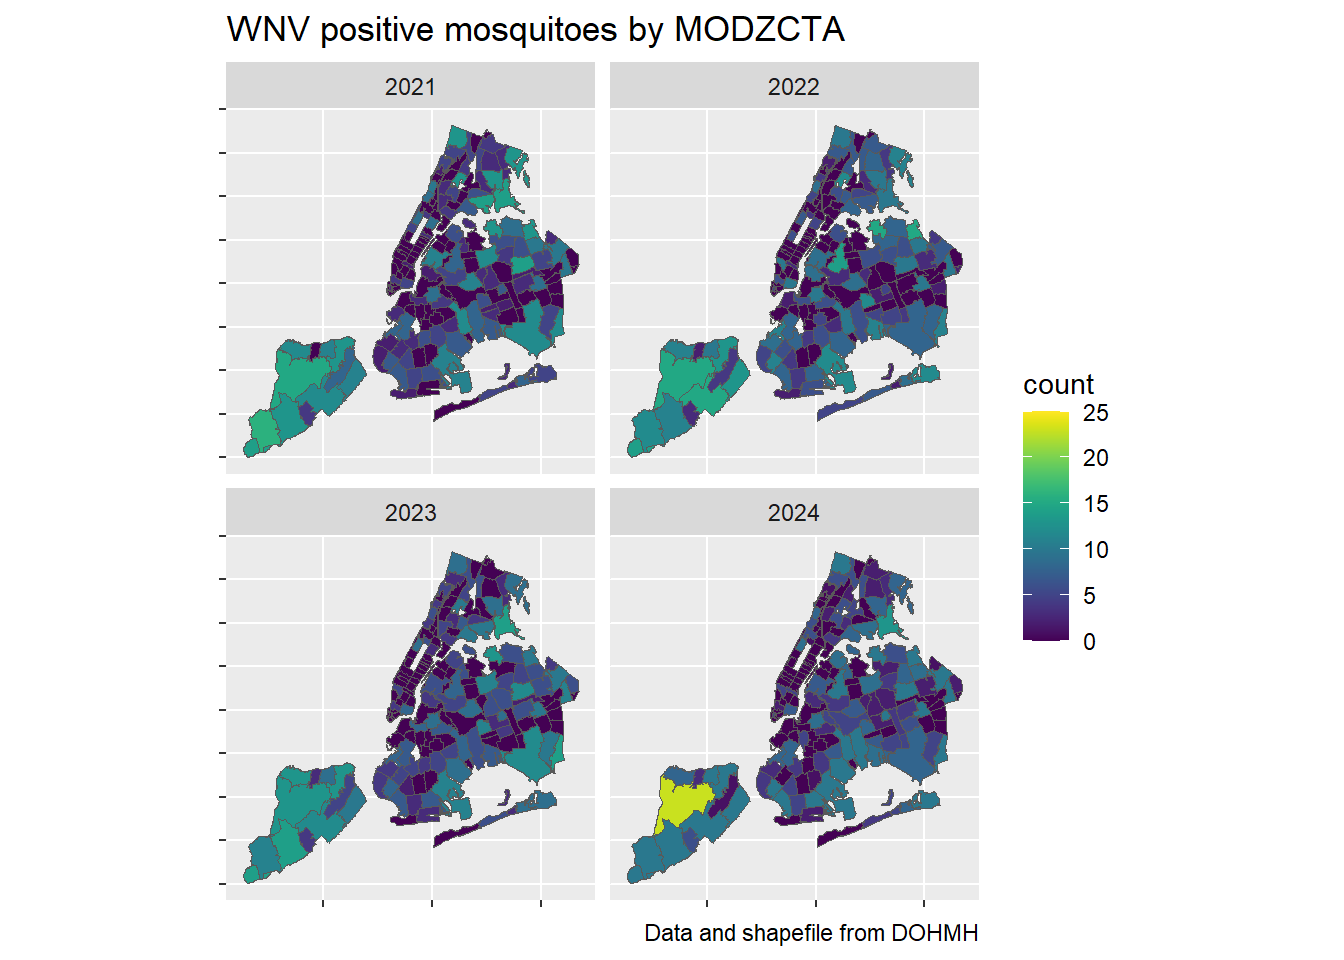
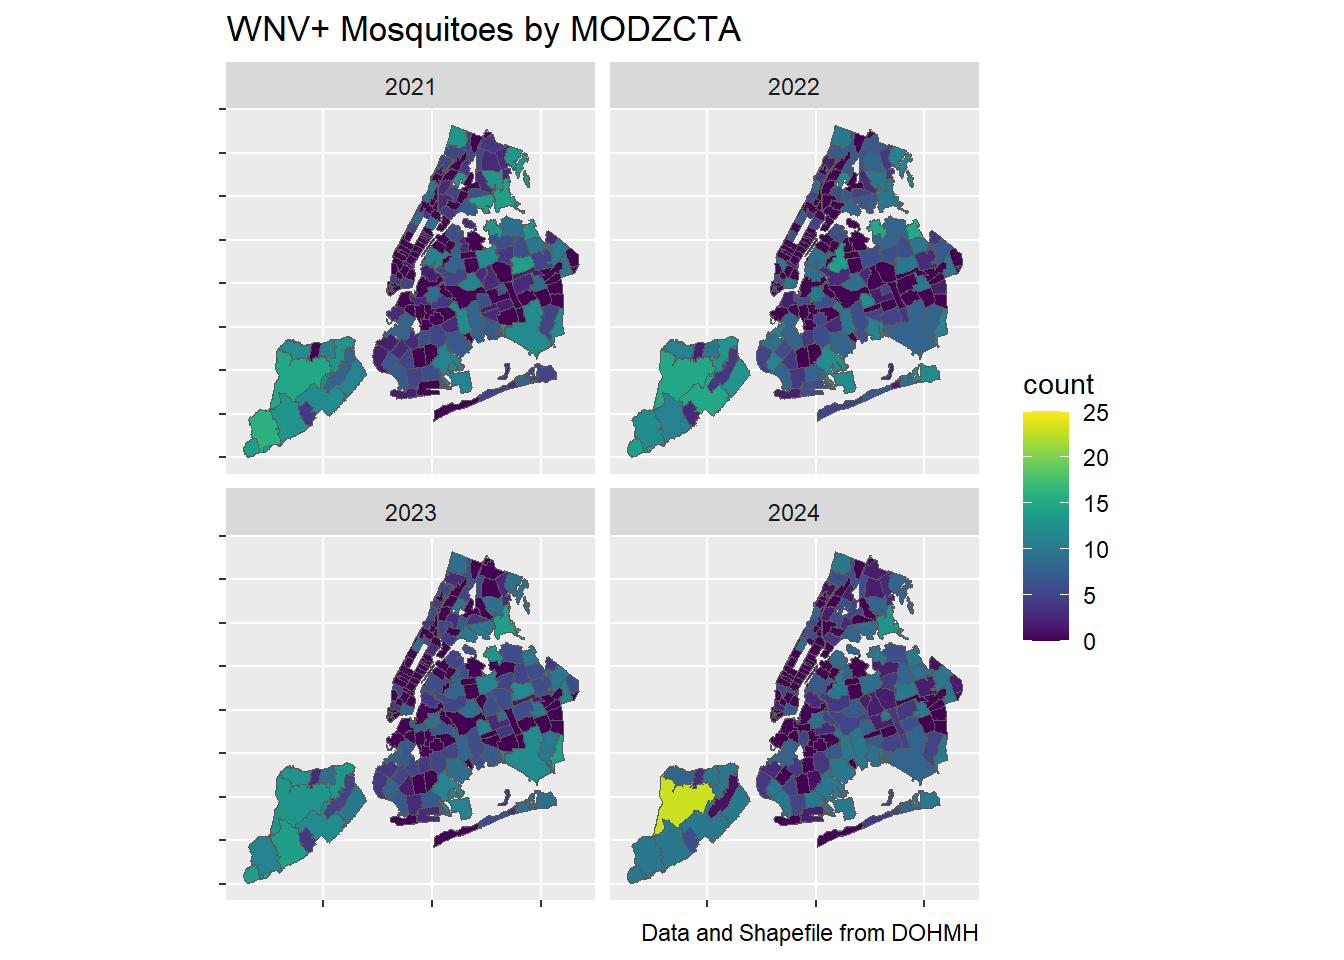
Fixed typo

Changed region(s): [[0.2188, 0.0, 0.625, 0.0625], [0.4688, 0.9688, 0.5625, 1.0]]

diff --git a/data_exploration.html b/data_exploration.html
@@ -394,8 +394,8 @@ library(GSODR)</code></pre>
 <div id="sources" class="section level3">
 <h3>Sources</h3>
 <p>We utilized the <a
-href="https://p8105.com/data/zip_codes.html">Supplmentary Dataset of NYC
-Zip Codes</a> that was provided on our P8105 class website, which
+href="https://p8105.com/data/zip_codes.html">Supplementary Dataset of
+NYC Zip Codes</a> that was provided on our P8105 class website, which
 includes information on <em>NYC zip codes, boroughs</em>, and
 <em>neighborhoods</em>.</p>
 <p>We located the <a
@@ -823,9 +823,9 @@ for each year from 2021 through 2024, separated by borough.</p>
   ggplot(aes(x = date, y = count, fill = borough)) +
   geom_col(stat = &quot;identity&quot;) +
   labs(
-    y = &quot;WNV+ mosquitoes&quot;,
+    y = &quot;WNV+ Mosquitoes&quot;,
     x = &quot;Months&quot;,
-    title = &quot;WNV+ mosquitoes in 2021&quot;
+    title = &quot;WNV+ Mosquitoes in 2021&quot;
   ) +
   facet_grid(~borough)</code></pre>
 <p><img src="data_exploration_files/figure-html/unnamed-chunk-8-1.png" width="672" /></p>
@@ -837,9 +837,9 @@ for each year from 2021 through 2024, separated by borough.</p>
   ggplot(aes(x = date, y = count, fill = borough)) +
   geom_col(stat = &quot;identity&quot;) +
   labs(
-    y = &quot;WNV+ mosquitoes&quot;,
+    y = &quot;WNV+ Mosquitoes&quot;,
     x = &quot;Months&quot;,
-    title = &quot;WNV+ mosquitoes in 2022&quot;
+    title = &quot;WNV+ Mosquitoes in 2022&quot;
   ) +
   facet_grid(~borough)</code></pre>
 <p><img src="data_exploration_files/figure-html/unnamed-chunk-8-2.png" width="672" /></p>
@@ -851,9 +851,9 @@ for each year from 2021 through 2024, separated by borough.</p>
   ggplot(aes(x = date, y = count, fill = borough)) +
   geom_col(stat = &quot;identity&quot;) +
   labs(
-    y = &quot;WNV+ mosquitoes&quot;,
+    y = &quot;WNV+ Mosquitoes&quot;,
     x = &quot;Months&quot;,
-    title = &quot;WNV+ mosquitoes in 2023&quot;
+    title = &quot;WNV+ Mosquitoes in 2023&quot;
   ) +
   facet_grid(~borough)</code></pre>
 <p><img src="data_exploration_files/figure-html/unnamed-chunk-8-3.png" width="672" /></p>
@@ -865,9 +865,9 @@ for each year from 2021 through 2024, separated by borough.</p>
   ggplot(aes(x = date, y = count, fill = borough)) +
   geom_col(stat = &quot;identity&quot;) +
   labs(
-    y = &quot;WNV+ mosquitoes&quot;,
+    y = &quot;WNV+ Mosquitoes&quot;,
     x = &quot;Months&quot;,
-    title = &quot;WNV+ mosquitoes in 2024&quot;
+    title = &quot;WNV+ Mosquitoes in 2024&quot;
   ) +
   facet_grid(~borough)</code></pre>
 <p><img src="data_exploration_files/figure-html/unnamed-chunk-8-4.png" width="672" /></p>
@@ -888,9 +888,9 @@ wnv_mosquitoes |&gt;
 ggplot(aes(x = weekyear, y = count)) +
 geom_point() +
 labs(
-  x = &quot;Weeks since 2021&quot;,
+  x = &quot;Weeks Since January 2021&quot;,
   y = &quot;WNV+ mosquitoes&quot;,
-  title = &quot;Total citywide WNV+ mosquito counts per week&quot;
+  title = &quot;Total Citywide WNV+ Mosquito Counts Per Week&quot;
 )</code></pre>
 <p><img src="data_exploration_files/figure-html/unnamed-chunk-9-1.png" width="672" /></p>
 <p>Further, when boroughs are grouped together, we see that the number
@@ -911,6 +911,15 @@ class="section level3">
 2021-2024 and overlay the WNV positive mosquitoes data to see if we
 could visualize any trends on which boroughs or neighborhoods may be
 affected more.</p>
+<p>One thing worth noting is that the WNV+ mosquito counts are by ZIP
+code, but we could not find a shapefile containing NYC ZIP codes that
+was within the GitHub storage limit. Hence, we had to use a smaller
+shapefile that used MODZCTAs, which are approximations of ZIP codes
+created by the Census Bureau and modified by the NYC city government to
+combine non-residential ZIP codes with nearby residential ones. The only
+MODZCTA shapefile available was for 2010 MODZCTAs, making some MODZCTA
+boundaries somewhat outdated. The mapping of mosquitoes is then not a
+1:1 comparison, though it is a close proxy.</p>
 <pre class="r"><code># get ZIP codes that did not have counts of WNV using anti_join with original ZIP code list (for generating proportions and to ensure ZIPs without cases can still be mapped later)
 
 
@@ -1004,8 +1013,8 @@ mos_by_modzcta |&gt;
   ggplot(aes(fill = count, geometry = geometry)) +
   geom_sf() + 
   labs(
-    title = &quot;WNV positive mosquitoes by MODZCTA&quot;,
-    caption = &quot;Data and shapefile from DOHMH&quot;
+    title = &quot;WNV+ Mosquitoes by MODZCTA&quot;,
+    caption = &quot;Data and Shapefile from DOHMH&quot;
   ) +
   theme(
     axis.text.x = element_blank(), 
